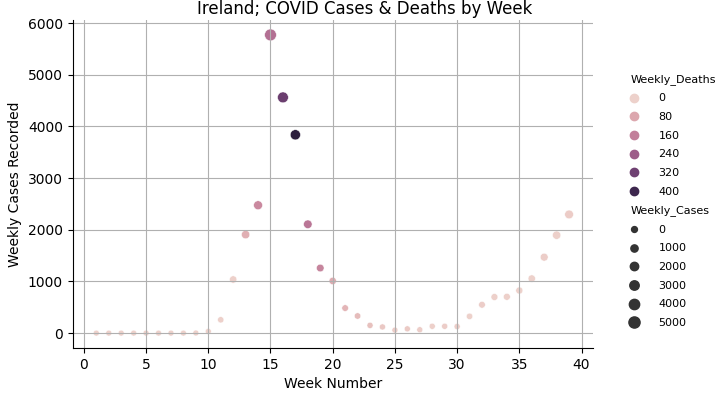
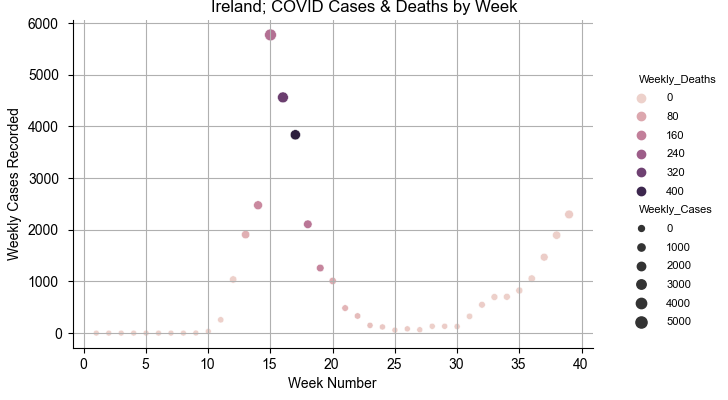
01.02 Final Commit

diff --git a/Colm_OKane_UCD_Project/Ireland; Cases & Deaths.py b/Colm_OKane_UCD_Project/Ireland; Cases & Deaths.py
@@ -6,8 +6,7 @@ from matplotlib import rcParams
 data = pd.read_csv('RDCDFinal.csv', index_col=0)
 print(data.columns)
 RD = data.loc[:, ['location', 'Econ_Block', 'Week_Num', 'Weekly_Cases',
-                  'Stringency_Indexed', 'population', 'Weekly_Deaths',
-                  'Deaths_%_Cases']]
+                  'Stringency_Indexed', 'population', 'Weekly_Deaths']]
 RDEcon = RD.query('Econ_Block== "EU"')
 RDEcon1 = RDEcon.query('location == "Ireland"')
 RDEcon1 = pd.DataFrame(RDEcon1)
@@ -22,15 +21,11 @@ g.set_xlabels('Week Number')
 plt.subplots_adjust(top=0.95, bottom=0.13)
 #plt.figlegend()
 sns.set_palette("RdBu")
-#sns.set(style='whitegrid')
+sns.set(style='whitegrid')
 sns.set_context('paper')
 plt.setp(g._legend.get_texts(), fontsize=8)
-#leg=g._legend
-#leg.set_bbox_to_anchor([0.5, 0.5])
 plt.grid(True)
-#leg._loc=2
-#fig=ax.get_figure()
-#fig.savegig('Ireland; Cases & Deaths.png')
+
 plt.savefig('Ireland; Cases & Deaths.png')
 plt.show()
 plt.cla()

diff --git a/Colm_OKane_UCD_Project/Governments implement Restrictions to limit activity.py b/Colm_OKane_UCD_Project/Governments implement Restrictions to limit activity.py
@@ -31,6 +31,7 @@ ax.annotate('Wk15 = 150 Countries', xy=(15, 148),  xycoords='data',
                 xytext=(10, -20), textcoords='offset points',
                 arrowprops=dict(arrowstyle="->")
                 )
+
 ax.legend(loc=5)
 plt.show()
 fig.savefig('Governments implement Restrictions to limit interaction.png')

diff --git a/Colm_OKane_UCD_Project/EU Countries cases by Week.py b/Colm_OKane_UCD_Project/EU Countries cases by Week.py
@@ -35,6 +35,6 @@ plt.subplots_adjust(top=0.98)
 #leg._loc=2
 #fig=ax.get_figure()
 #fig.savegig('Ireland; Cases & Deaths.png')
-plt.savefig('EU; Cases & Deaths.png')
+plt.savefig('EU Members; Cases & Deaths by Week.png')
 plt.show()
 plt.clf()
